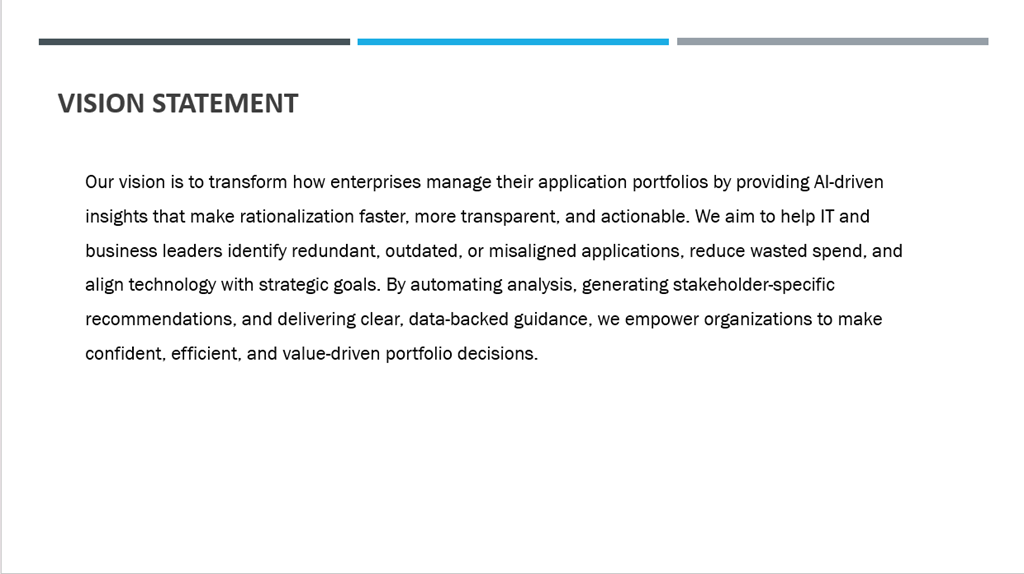
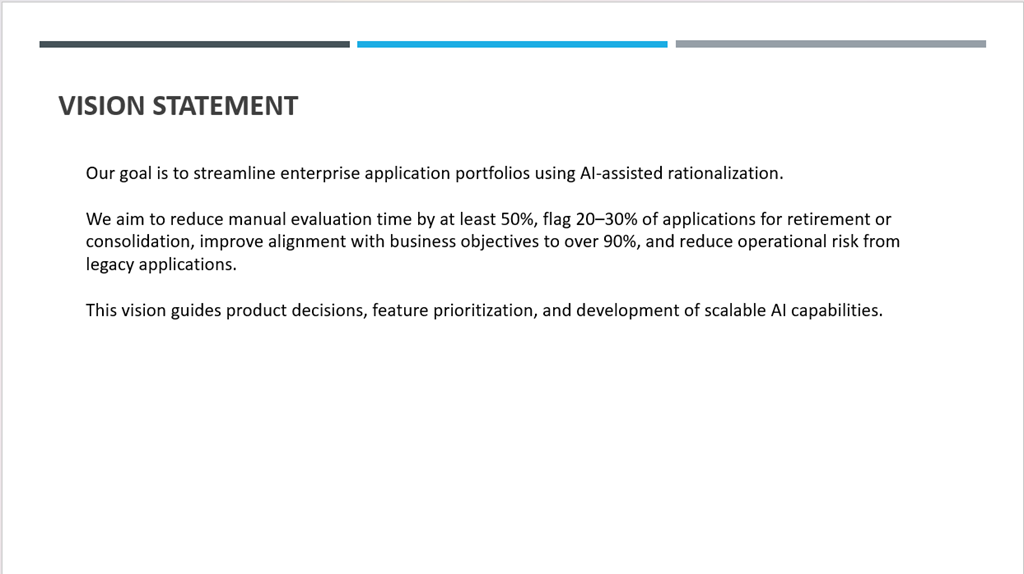
Updated GenAI Carousel

diff --git a/Product1/genai-advisor.html b/Product1/genai-advisor.html
@@ -129,79 +129,82 @@
   </header>
 
   <main>
-    <section class="project-summary container" style="padding-top:22px;">
-      <!-- Executive Summary -->
-      <section class="summary-section" role="region" aria-labelledby="project-summary-title" style="margin-bottom:18px;">
-        <h2 id="project-summary-title">Executive Summary</h2>
-        <p>
-          The GenAI App Rationalization Advisor is an AI-powered prototype designed to help enterprises optimize complex application portfolios. It analyzes cost, usage, technology stack, and risk data to provide clear recommendations to retain, retire, modernize, or consolidate applications. The tool generates stakeholder-specific reports with transparent reasoning to support strategic decision-making. By automating analysis, it reduces manual workload and accelerates transformation initiatives.
-        </p>
+<section class="project-summary container" style="padding-top:22px;">
+  <!-- Executive Summary -->
+  <section class="summary-section" role="region" aria-labelledby="project-summary-title" style="margin-bottom:18px;">
+    <h2 id="project-summary-title">Executive Summary</h2>
+    <p>
+      The GenAI App Rationalization Advisor is an AI-powered prototype designed to help enterprises optimize complex application portfolios. It analyzes cost, usage, technology stack, business criticality, and risk data to provide clear recommendations to retain, retire, modernize, or consolidate applications. The system generates a portfolio-level report with transparent reasoning to support strategic decision-making. By automating analysis, it reduces manual workload and accelerates transformation initiatives.
+    </p>
 
-        <h3 style="margin-top:12px;">Overview</h3>
-        <p>
-          This prototype was inspired by my experience as an Application Portfolio Manager (APM) at GE Vernova, where I saw firsthand how challenging it can be for large enterprises to manage hundreds or even thousands of applications across teams, departments, and regions. Over time, portfolios often become bloated due to organic growth, mergers, and decentralized decision-making, making it difficult to maintain alignment with business needs.
-        </p>
-        <p>
-          Maintaining and operating these applications can consume up to 70–80% of IT budgets, leaving little room for innovation. Many applications are redundant, outdated, or carry compliance and security risks. Traditional portfolio rationalization efforts are manual, slow, and influenced by unclear ownership or politics.
-        </p>
-        <p>
-          The GenAI App Rationalization Advisor addresses these challenges by leveraging generative AI to analyze structured and semi-structured data such as cost, usage, technology stack, and risk. It generates actionable recommendations to retain, retire, modernize, or consolidate applications, along with stakeholder-specific reports and transparent reasoning to support faster, more informed portfolio decisions.
-        </p>
+    <h3 style="margin-top:12px;">Overview</h3>
+    <p>
+      This prototype was inspired by my experience as an Application Portfolio Manager (APM) at GE Vernova, where I saw firsthand how challenging it can be for large enterprises to manage hundreds or even thousands of applications across teams, departments, and regions. Over time, portfolios often become bloated due to organic growth, mergers, and decentralized decision-making, making it difficult to maintain alignment with business needs.
+    </p>
+    <p>
+      Maintaining and operating these applications can consume up to 70–80% of IT budgets, leaving little room for innovation. Many applications are redundant, outdated, or carry compliance and security risks. Traditional portfolio rationalization efforts are manual, slow, and influenced by unclear ownership or politics.
+    </p>
+    <p>
+      The GenAI App Rationalization Advisor addresses these challenges by leveraging generative AI to analyze structured and semi-structured data such as cost, usage, technology stack, and risk. It generates actionable recommendations along with a portfolio-level report and transparent reasoning to support faster, more informed portfolio decisions.
+    </p>
 
-        <h3 style="margin-top:12px;">Key features</h3>
-        <ul>
-          <li>AI-Driven Recommendations: Uses application metadata and business context to guide rationalization decisions.</li>
-          <li>Redundancy & Risk Detection: Identifies legacy systems, compliance risks, and technical redundancies.</li>
-          <li>Stakeholder-Specific Reports: Tailored for CIOs, application owners, finance, and security teams.</li>
-          <li>Scalable Analysis: Handles portfolios of thousands of applications across complex environments.</li>
-          <li>Governed AI Prompts: Ensures transparency, traceability, and auditability of AI-driven decisions.</li>
-        </ul>
+    <h3 style="margin-top:12px;">Key features</h3>
+    <ul>
+      <li>AI-Driven Recommendations: Uses application metadata and business context to guide rationalization decisions.</li>
+      <li>Redundancy & Risk Detection: Identifies legacy systems, compliance risks, and technical redundancies.</li>
+      <li>Portfolio-Level Report: Summarizes recommendations and rationale for all applications.</li>
+      <li>Scalable Analysis: Handles portfolios of thousands of applications across complex environments.</li>
+      <li>Governed AI Prompts: Ensures transparency, traceability, and auditability of AI-driven decisions.</li>
+    </ul>
 
-        <h3 style="margin-top:12px;">Target users</h3>
-        <ul>
-          <li>CIOs, Application Portfolio Managers, and Enterprise Architects</li>
-          <li>Application Owners</li>
-          <li>Finance and Procurement Teams</li>
-          <li>Security and Compliance Teams</li>
-        </ul>
+    <h3 style="margin-top:12px;">Target users</h3>
+    <ul>
+      <li>CIOs, Application Portfolio Managers, and Enterprise Architects</li>
+      <li>Application Owners</li>
+      <li>Finance and Procurement Teams</li>
+      <li>Security and Compliance Teams</li>
+    </ul>
 
-        <h3 style="margin-top:12px;">Business value</h3>
-        <ul>
-          <li><strong>Reduction:</strong> Identifies redundant or low-value applications.</li>
-          <li><strong>Faster Transformation:</strong> Accelerates cloud migration, M&A integration, and digital transformation efforts.</li>
-          <li><strong>Operational Efficiency:</strong> Reduces manual workload for IT teams.</li>
-          <li><strong>Strategic Alignment:</strong> Improves transparency and decision-making across the organization.</li>
-        </ul>
-      </section>
+    <h3 style="margin-top:12px;">Business value</h3>
+    <ul>
+      <li><strong>Reduction:</strong> Identifies redundant or low-value applications to guide rationalization decisions.</li>
+      <li><strong>Supports Transformation:</strong> Provides insights to help plan cloud migration, M&A integration, and digital transformation efforts.</li>
+      <li><strong>Operational Efficiency:</strong> Reduces manual workload for IT teams.</li>
+      <li><strong>Strategic Alignment:</strong> Improves transparency and decision-making across the organization.</li>
+    </ul>
+  </section>
 
-      <!-- Technology & MVP -->
-      <section class="summary-section" role="region" aria-labelledby="tech-overview-title">
-        <h3 id="tech-overview-title">Technology overview</h3>
-        <p>
-          The prototype integrates Generative AI with structured portfolio data to automate rationalization analysis and generate transparent, stakeholder-specific reports.
-        </p>
+  <!-- Technology & MVP -->
+  <section class="summary-section" role="region" aria-labelledby="tech-overview-title">
+    <h3 id="tech-overview-title">Technology overview</h3>
+    <p>
+      The prototype integrates Generative AI with structured portfolio data to automate rationalization analysis and generate a portfolio-level report.
+    </p>
 
-        <ul>
-          <li><strong>Stack:</strong> Python, GPT-4, Tkinter, CSV/CMDB import</li>
-          <li><strong>Inputs:</strong> Application inventory, usage data, cost, compliance risk, owner input</li>
-          <li><strong>Outputs:</strong> Disposition recommendations with rationale, stakeholder-specific reports (PDF/CSV)</li>
-        </ul>
+    <ul>
+      <li><strong>Stack:</strong> Python, GPT-4, Tkinter, CSV import</li>
+      <li><strong>Inputs:</strong> Application inventory, usage data, cost, compliance risk, owner input</li>
+      <li><strong>Outputs:</strong> Disposition recommendations with rationale and a portfolio-level report (PDF/CSV)</li>
+    </ul>
 
-        <h3 style="margin-top:12px;">MVP scope</h3>
-        <ul>
-          <li>Upload application data via CSV or form input</li>
-          <li>Generate disposition recommendations</li>
-          <li>Export stakeholder-specific reports</li>
-        </ul>
+    <h3 style="margin-top:12px;">MVP scope</h3>
+    <ul>
+      <li>Upload application inventory and usage data via CSV for analysis</li>
+      <li>Generate AI-powered recommendations for retaining, retiring, modernizing, or consolidating applications</li>
+      <li>Export report containing recommendations with an explanation</li>
+    </ul>
 
-        <h3 style="margin-top:12px;">Roadmap</h3>
-        <ul>
-          <li>Clustering and grouping of applications</li>
-          <li>Slack alerts and notifications</li>
-          <li>ServiceNow export integration</li>
-          <li>Feedback loops for continuous improvement</li>
-        </ul>
-      </section>
+    <h3 style="margin-top:12px;">Roadmap</h3>
+    <ul>
+      <li>Feedback Loops: Capture user validation on AI recommendations to improve trust and system learning</li>
+      <li>Governance Guardrails: Protect critical applications, require human approval, and show confidence scores to ensure compliance</li>
+      <li>Embedding Similarity & Semantic Search: Detect functionally similar applications even if names differ and prepare for CMDB-based semantic search</li>
+      <li>Build trust, ensure compliance, and unlock deeper insights for smarter rationalization</li>
+    </ul>
+
+  </section>
+</section>
+
 
       <!-- Slide deck carousel -->
       <div class="carousel-wrapper" aria-label="GenAI App Rationalization Advisor slide deck">
@@ -210,20 +213,47 @@
             <div class="carousel-slide" role="group" aria-roledescription="slide" aria-label="Slide Home — Main">
               <img src="Home.png" alt="Slide Home — Main" />
             </div>
-            <div class="carousel-slide" role="group" aria-roledescription="slide" aria-label="Slide 1 — Problem statement">
-              <img src="ProblemStatement.png" alt="Slide 1 — Problem statement" />
+            <div class="carousel-slide" role="group" aria-roledescription="slide" aria-label="Slide 1 — Executive Summary">
+              <img src="Executive_Summary.png" alt="Slide 1 — Executive Summary" />
             </div>
-            <div class="carousel-slide" role="group" aria-roledescription="slide" aria-label="Slide 2 — Hypothesis">
-              <img src="Hypothesis.png" alt="Slide 2 — Hypothesis" />
+            <div class="carousel-slide" role="group" aria-roledescription="slide" aria-label="Slide 2 — Problem Statement">
+              <img src="Problem_Statement.png" alt="Slide 2 — Problem Statement" />
             </div>
-            <div class="carousel-slide" role="group" aria-roledescription="slide" aria-label="Slide 3 — Vision statement">
-              <img src="VisionStatement.png" alt="Slide 3 — Vision statement" />
+            <div class="carousel-slide" role="group" aria-roledescription="slide" aria-label="Slide 3 — Primary Personas">
+              <img src="Personas.png" alt="Slide 3 — Primary Personas" />
             </div>
-            <div class="carousel-slide" role="group" aria-roledescription="slide" aria-label="Slide 4 — Approach and architecture">
-              <img src="Arch_Overview.png" alt="Slide 4 — Approach and architecture" />
+            <div class="carousel-slide" role="group" aria-roledescription="slide" aria-label="Slide 4 — Vision Statement">
+              <img src="VisionStatement.png" alt="Slide 4 — Vision Statement" />
             </div>
-            <div class="carousel-slide" role="group" aria-roledescription="slide" aria-label="Slide 5 — Results and next steps">
-              <img src="images/genai_slide5.png" alt="Slide 5 — Results and next steps" />
+            <div class="carousel-slide" role="group" aria-roledescription="slide" aria-label="Slide 5 — Hypothesis">
+              <img src="Hypothesis.png" alt="Slide 5 — Hypothesiss" />
+            </div>
+            <div class="carousel-slide" role="group" aria-roledescription="slide" aria-label="Slide 6 — Solution Overview">
+              <img src="SolutionOverview.png" alt="Slide 6 — Solution Overview" />
+            </div>
+            <div class="carousel-slide" role="group" aria-roledescription="slide" aria-label="Slide 7 — How The System Works">
+              <img src="HowWorks.png" alt="Slide 7 — How The System Works" />
+            </div>
+            <div class="carousel-slide" role="group" aria-roledescription="slide" aria-label="Slide 8 — Before and After">
+              <img src="BeforeAfter.png" alt="Slide 8 — Before and After" />
+            </div>
+            <div class="carousel-slide" role="group" aria-roledescription="slide" aria-label="Slide 9 — Business Impact">
+              <img src="BusinessImpact.png" alt="Slide 9 — Business Impact" />
+            </div>
+            <div class="carousel-slide" role="group" aria-roledescription="slide" aria-label="Slide 10 — Whay AI">
+              <img src="WhyAI.png" alt="Slide 10 — Whay AI" />
+            </div>
+            <div class="carousel-slide" role="group" aria-roledescription="slide" aria-label="Slide 11 — Skills Demonstrated">
+              <img src="SkillsDemo.png" alt="Slide 11 — Skills Demonstrated" />
+            </div>
+            <div class="carousel-slide" role="group" aria-roledescription="slide" aria-label="Slide 12 — Roadmap">
+              <img src="Roadmap.png" alt="Slide 12 — Roadmap" />
+            </div>
+            <div class="carousel-slide" role="group" aria-roledescription="slide" aria-label="Slide 13 — Sample Output Retire">
+              <img src="OutputRetire.png" alt="Slide 13 — Sample Output Retire" />
+            </div>
+            <div class="carousel-slide" role="group" aria-roledescription="slide" aria-label="Slide 13 — Sample Output Retain">
+              <img src="OutputRetain.png" alt="Slide 13 — Sample Output Retain" />
             </div>
           </div>
 
